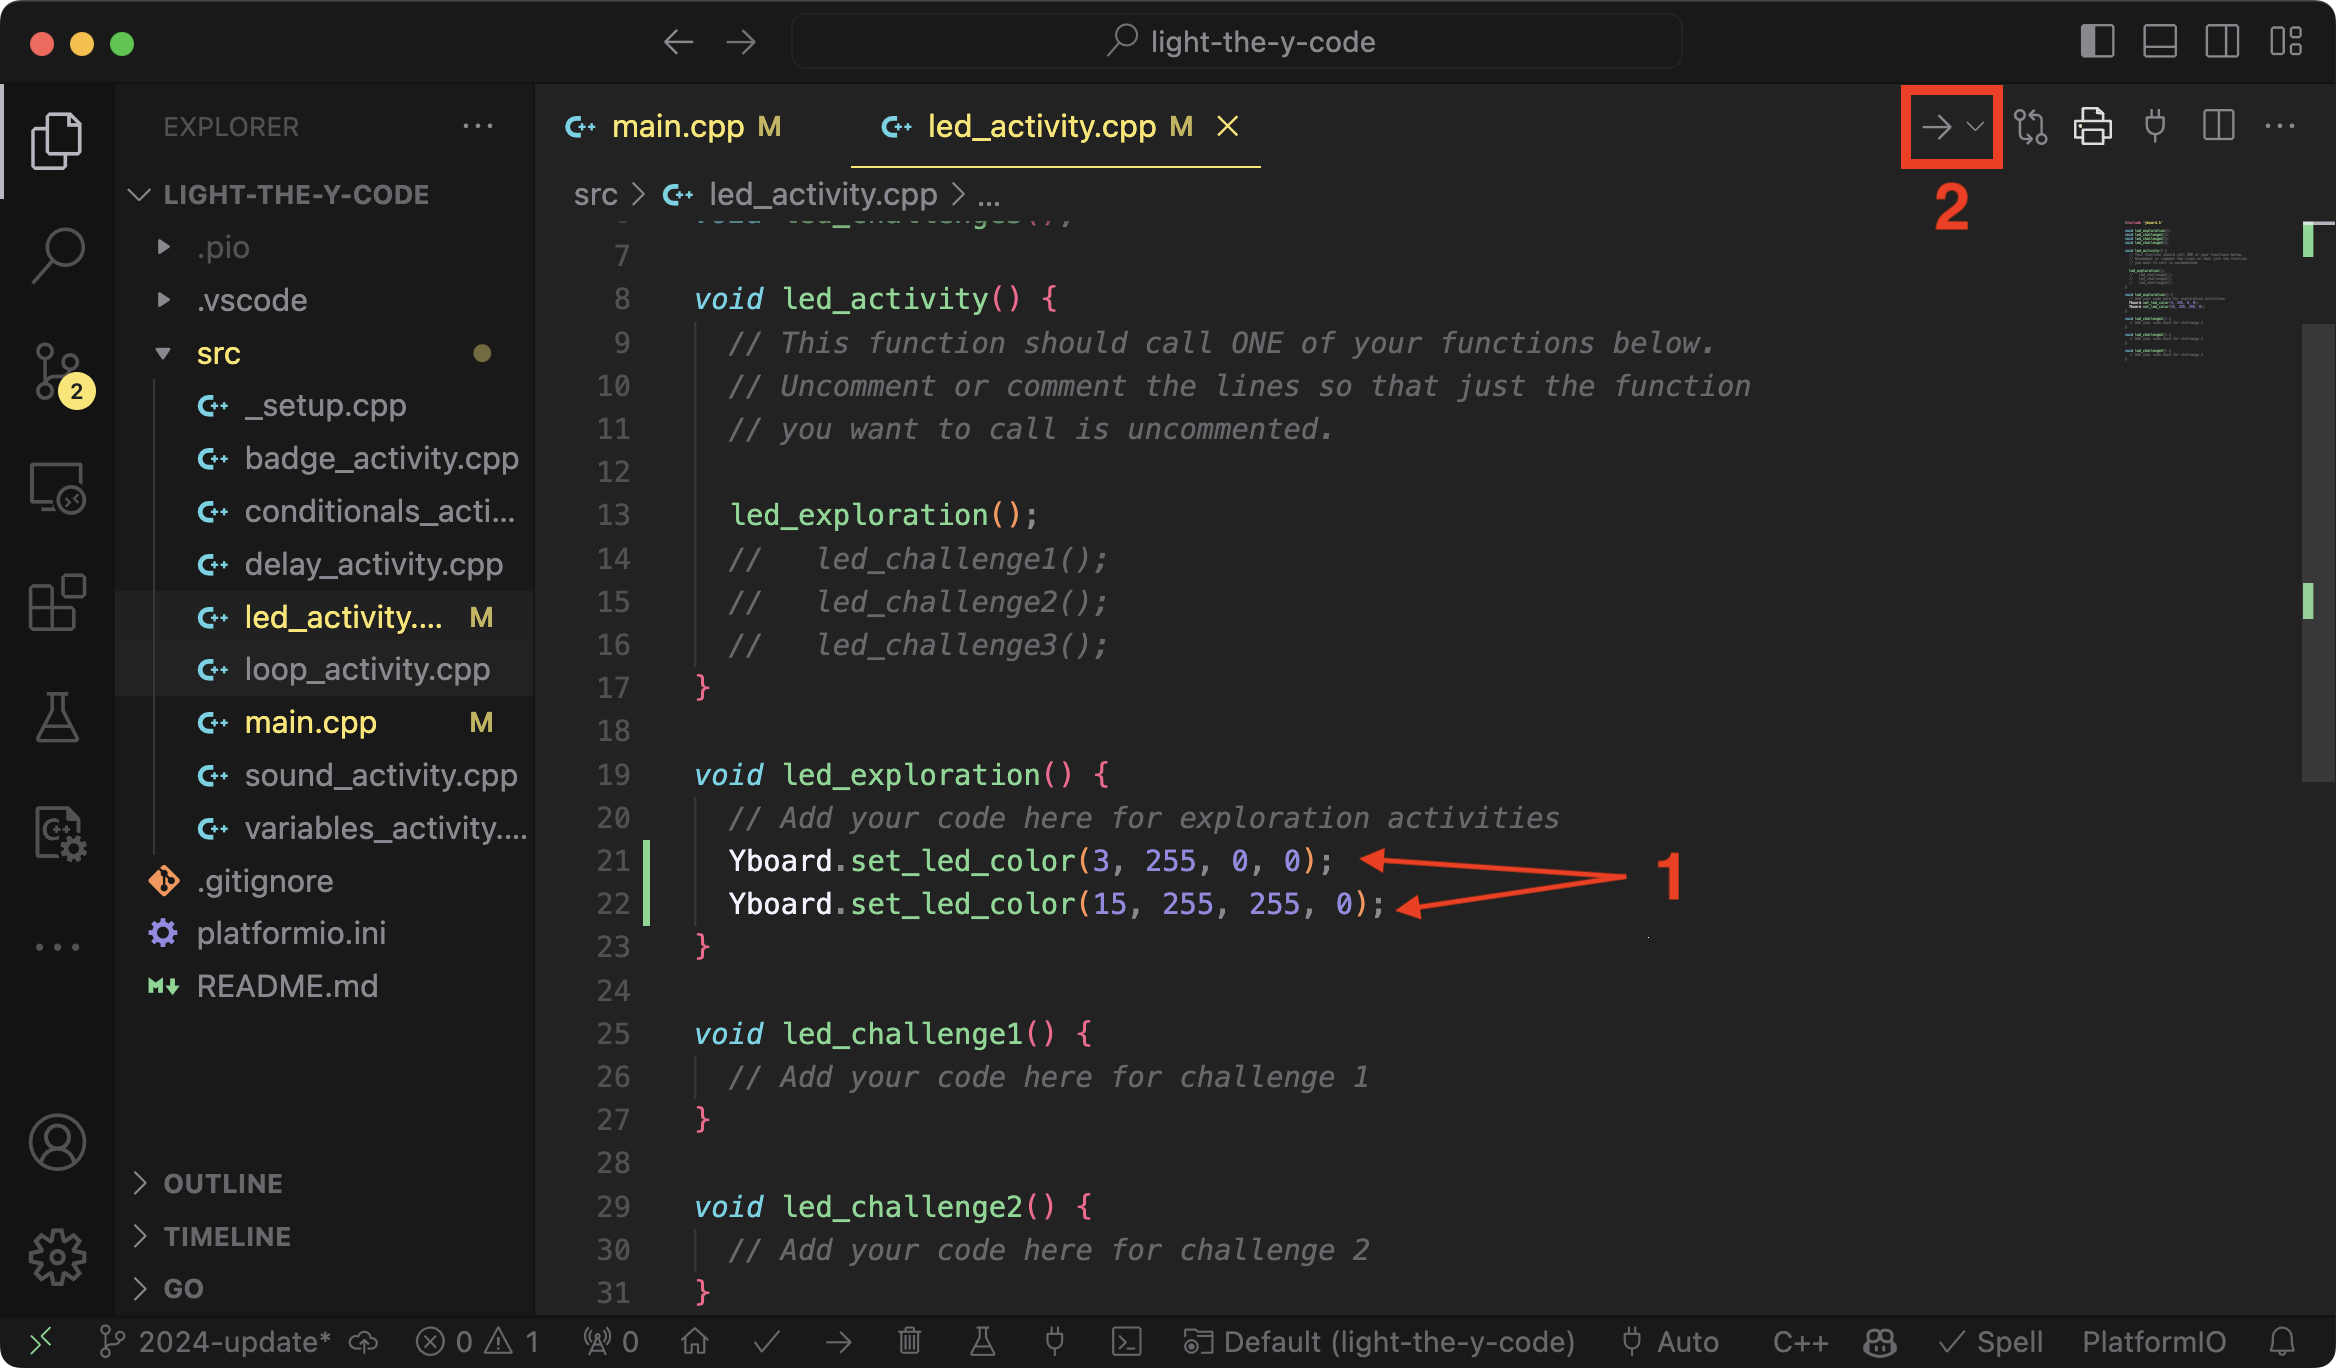
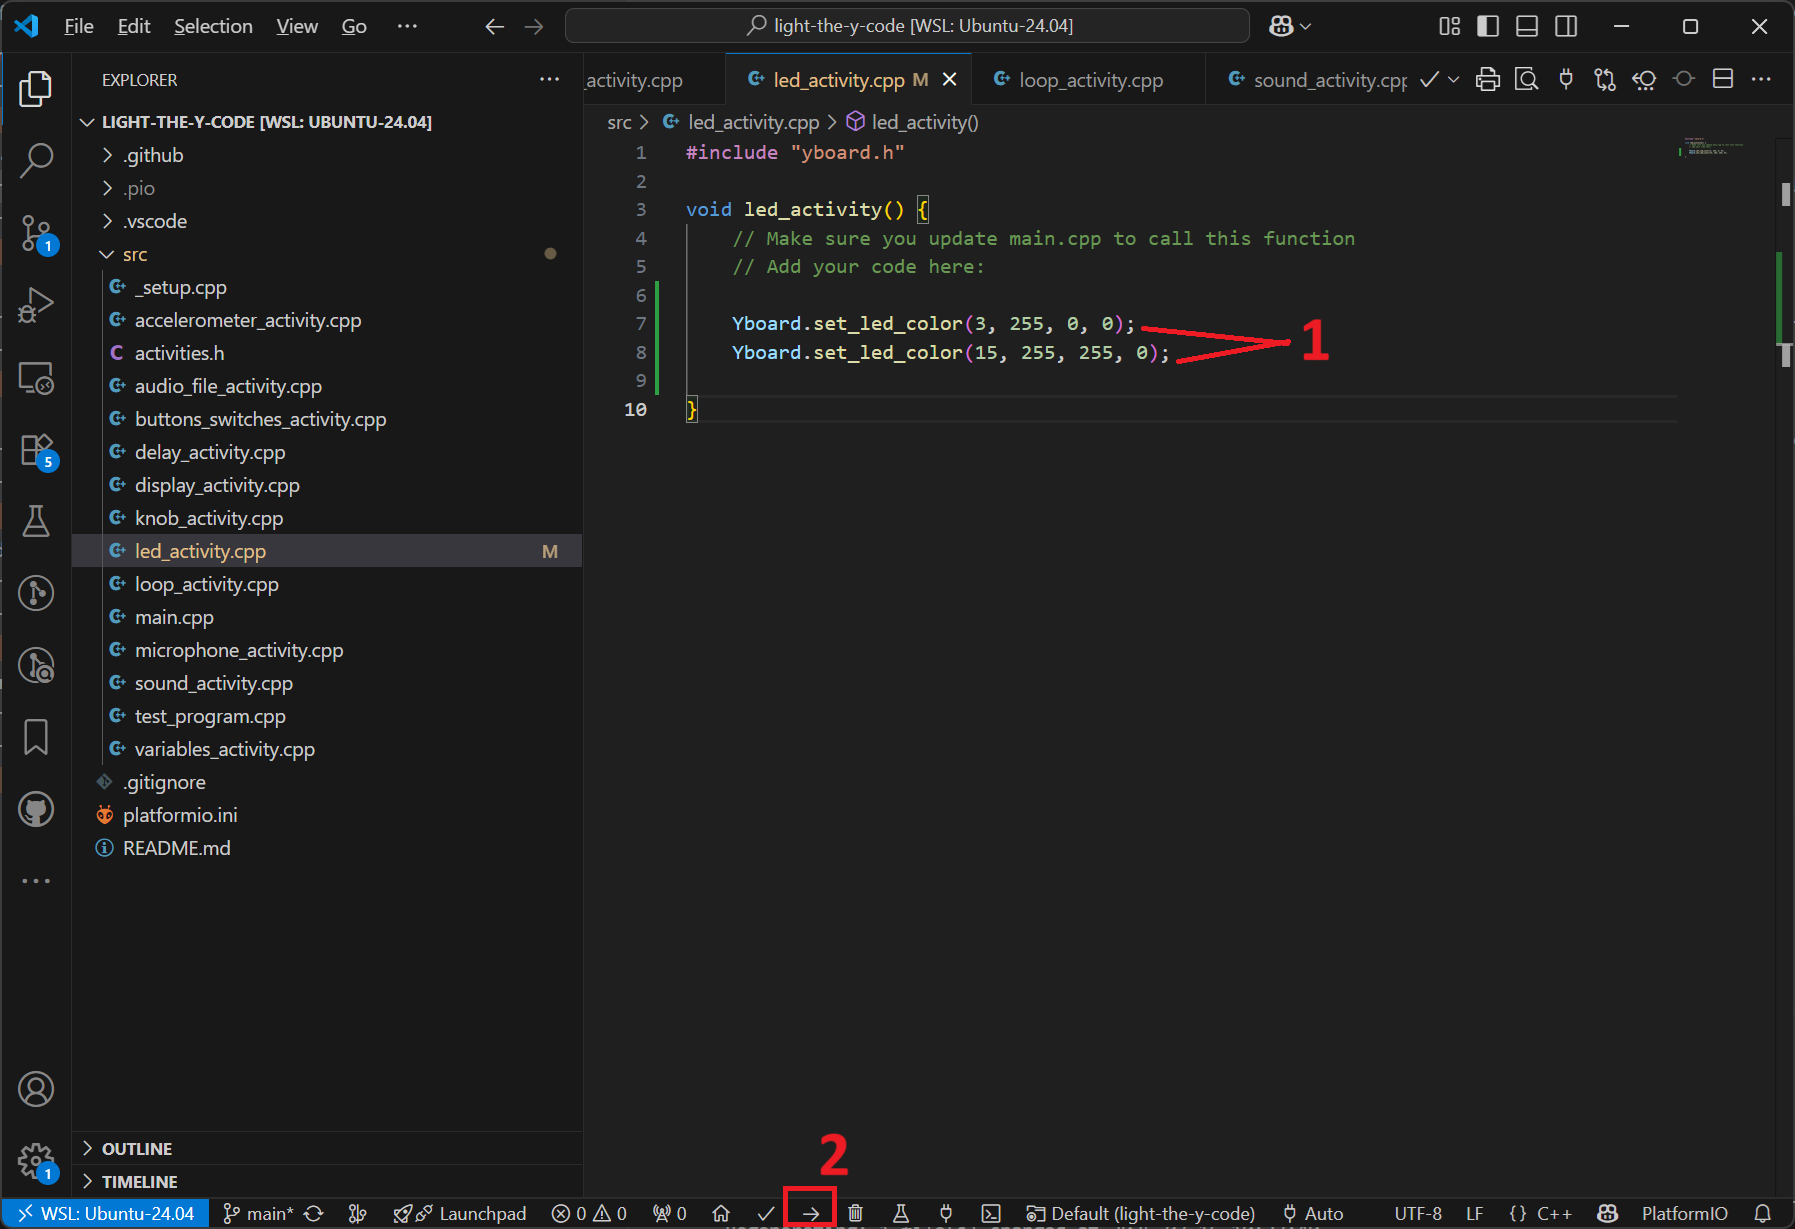
Commenting activity instructions

diff --git a/_modules/leds.md b/_modules/leds.md
@@ -42,8 +42,21 @@ To make LED 15 display bright yellow, you should turn on the red and green pixel
 Yboard.set_led_color(15, 255, 255, 0);
 ```
 
-Add the example code to your own to test it out. Don't forget to click the upload button in the top right corner dropdown to program your board with new code! 
+Add the example code to your own to test it out.
+
+_**Important**: Each time you start a new activity, you should go back to `main.cpp`, to comment out the old activity function call and uncomment the activity function that you want to call.  Before starting this activity, make sure the code in your `main.cpp` looks like this:_
+
+```c
+// test_program();
+led_activity();
+// delay_activity();
+// sound_activity();
+```
+
+Once you have done that, you're ready to add your code to the `led_activity()` function.   Don't forget to click the upload button (bottom bar, or top right corner dropdown) to program your board with new code! 
 <p align="middle"><img src="{% link media/upload_examples.png %}" width="800" vspace="10px"></p>
+
+
 
 ## Exploration
 
@@ -58,14 +71,7 @@ Add the example code to your own to test it out. Don't forget to click the uploa
 
 ## Challenges
 
-_Remember to comment out the `led_exploration();` call in the `led_activity` function and uncomment the correct challenge function:_
 
-```c
-// led_exploration();
-led_challenge1();
-// led_challenge2();
-// led_challenge3();
-```
 
 **Challenge 1:** Turn on LEDs 2, 30, and 23. Make them 3 different colors.
 

diff --git a/_modules/sound.md b/_modules/sound.md
@@ -50,7 +50,7 @@ The following function will return `true` if the sounds is still playing, and `f
 ```cpp
 Yboard.is_audio_playing();
 ```
-You may need to learn about [loops]({% link _modules/loops.md %}) and [conditional statements]({% link _modules/conditionals.md %}) before you can use this function in your code.
+You may need to learn about [loops]({% link _modules/loops.md %}) and [conditional statements]({% link _modules/buttons_switches.md %}) before you can use this function in your code.
 
 
 ## Examples
@@ -68,8 +68,10 @@ Yboard.play_notes("O4 T180 CCGGAAG2 FFEEDDC2");
 </summary>
 > 📝 **_NOTE:_** You will need to go to `main.cpp` and change the comments to call the correct activity function:
 ```c
+// led_activity();
 // delay_activity();
 sound_activity();
+// variables_activity();
 ```
 </details>
 

diff --git a/_modules/delays.md b/_modules/delays.md
@@ -67,10 +67,13 @@ Yboard.set_led_color(15, 0, 0, 0);
 
 ## Before You Start
 
-Each time we start a new activity, you will need to go to the `main.cpp` file and change which activity function is called when the program starts up. Before proceeding, go to `main.cpp` and comment out the `led_activity()` function call, and uncomment the `delay_activity()` function call:
+_Remember, each time you start a new activity, you should go back to `main.cpp`, to comment out the old activity function call and uncomment the activity function that you want to call.  Before starting this activity, make sure the code in your **main.cpp** looks like this:_
+
 ```c
+// test_program();
 // led_activity();
 delay_activity();
+// sound_activity();
 ```
 
 ## Exploration

diff --git a/_modules/audio_files.md b/_modules/audio_files.md
@@ -64,6 +64,13 @@ To convert a sound file to the `.wav` format:
 </details>
 
 ## Exploration
+
+<details markdown="block">
+<summary markdown="span">Remember to change `main.cpp` before continuing...
+</summary>
+> 📝 **_NOTE:_** You will need to go to `main.cpp` and change the comments to call the correct activity function.
+</details>
+
 1. Find a sound file at [freesound.org](https://freesound.org/), download it, and convert it to the correct format.  Play the sound file on the Y-Board.
 
 1. Update your program to play the sound file when a button is pressed, but only if switch 1 is up.  If switch one is slid down, stop playing the sound file.

diff --git a/_modules/display.md b/_modules/display.md
@@ -59,6 +59,17 @@ Yboard.display.display();
 
 ## Exploration
 
+<details markdown="block">
+<summary markdown="span">Remember to change `main.cpp` before continuing...
+</summary>
+> 📝 **_NOTE:_** You will need to go to `main.cpp` and change the comments to call the correct activity function:
+```c
+// buttons_switches_activity();
+// knob_activity();
+display_activity();
+```
+</details>
+
 1. Write a program that displays your name on the display, centered vertically and horizontally.
 2. When a button is pressed, display a message on the display that says "Button Pressed!" and then clear the display after 2 seconds.
 

diff --git a/_modules/microphone.md b/_modules/microphone.md
@@ -41,6 +41,11 @@ Yboard.stop_recording();
 
 
 ## Exploration
+<details markdown="block">
+<summary markdown="span">Remember to change `main.cpp` before continuing...
+</summary>
+> 📝 **_NOTE:_** You will need to go to `main.cpp` and change the comments to call the correct activity function.
+</details>
 
 1. Update the example above to record audio for 10 seconds instead of 5 seconds. How do you know when the recording has started and stopped? Update the LEDS to show you the status of the board.
 

diff --git a/_modules/variables.md b/_modules/variables.md
@@ -96,9 +96,10 @@ variables_activity();
 _Remember to comment out the `variables_exploration();` call in the `variables_activity` function and uncomment the correct challenge function:_
 
 ```c
-variables_exploration();
-// variables_challenge1();
-// variables_challenge2();
+// delay_activity();
+// sound_activity();
+variables_activity();
+// loop_activity();
 ```
 </details>
 

diff --git a/_modules/knob.md b/_modules/knob.md
@@ -62,8 +62,10 @@ There are other things you can try to control with `Yboard.get_knob()` (for exam
 </summary>
 > 📝 **_NOTE:_** You will need to go to `main.cpp` and change the comments to call the correct activity function:
 ```c
-// conditionals_activity();
+// loop_activity();
+// buttons_switches_activity();
 knob_activity();
+// display_activity();
 ```
 </details>
 

diff --git a/_modules/buttons_switches.md b/_modules/buttons_switches.md
@@ -175,8 +175,10 @@ There are a few important things to notice in this example:
 </summary>
 > 📝 **_NOTE:_** You will need to go to `main.cpp` and change the comments to call the correct activity function:
 ```c
+// variables_activity();
 // loop_activity();
-conditionals_activity();
+buttons_switches_activity();
+// knob_activity();
 ```
 </details>
 

diff --git a/_modules/loops.md b/_modules/loops.md
@@ -95,8 +95,10 @@ Yboard.set_led_color(1, 255, 0, 0);
 </summary>
 > 📝 **_NOTE:_** You will need to go to `main.cpp` and change the comments to call the correct activity function:
 ```c
+// sound_activity();
 // variables_activity();
 loop_activity();
+// buttons_switches_activity();
 ```
 </details>
 
